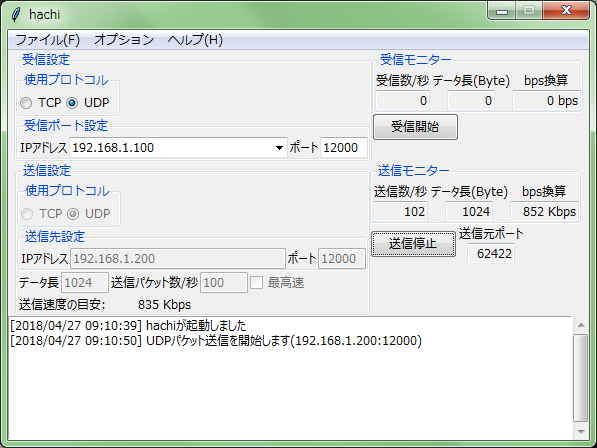
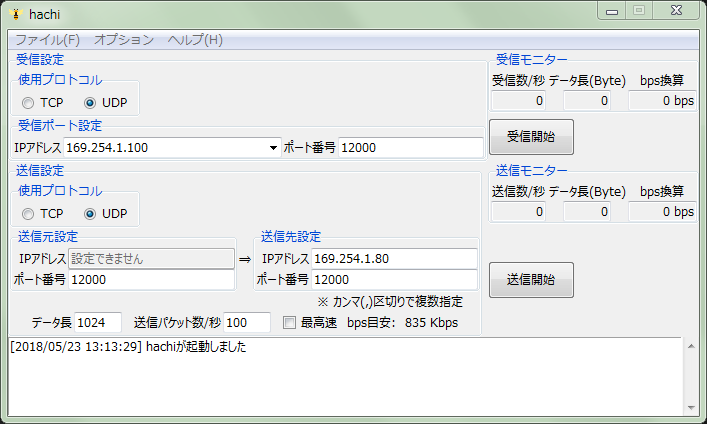
modify

Changed region(s): [[0.0, 0.0, 1.0, 1.0], [0.6935, 0.6439, 0.8141, 0.7052], [0.7839, 0.6132, 0.8141, 0.6439]]

diff --git a/view/TxField.py b/view/TxField.py
@@ -120,6 +120,9 @@ class SendParamField(ttk.Frame):
     def __init__(self, master):
         ttk.Frame.__init__(self, master)
 
+        # 注意書き
+        ttk.Label(self, text="※ カンマ(,)区切りで複数指定").pack(anchor=tk.E)
+
         # データ長
         param_datalen = Common.LabelEntry(self, text="データ長", width=6)
         param_datalen.pack(side=tk.LEFT, padx=5)
@@ -141,9 +144,10 @@ class SendParamField(ttk.Frame):
         param_unlimited.configure(variable=TxController.SendParams().unlimited)
         txWidgets['param_unlimited'] = param_unlimited
 
-        # # 送信速度の目安
-        # ttk.Label(self, text="送信速度の目安:   ").pack(side=tk.LEFT)
-        # txWidgets['param_pps'] = param_pps
+        # 送信速度の目安
+        ttk.Label(self, text="bps目安:").pack(side=tk.LEFT)
+        param_bps = ttk.Label(self, textvariable=TxController.SendParams().bps)
+        param_bps.pack(side=tk.LEFT, padx=5)
 
 
 class MonitorField(ttk.LabelFrame):

diff --git a/model/HachiUtil.py b/model/HachiUtil.py
@@ -33,9 +33,9 @@ def is_admin():
 class UpdateBps:
     """ bpsの動的更新 """
 
-    def __init__(self, len, freq, bps_str):
+    def __init__(self, len, pps, bps_str):
         self.len = len
-        self.freq = freq
+        self.pps = pps
         self.bps_str = bps_str
 
         # 初回実行
@@ -44,7 +44,13 @@ class UpdateBps:
     def __call__(self, *args):
         try:
             # 数値以外が設定されていたら例外へ飛ぶ
-            bps = ((self.len.get() + 46) * 8) * self.freq.get()
+            len = int(self.len.get())
+            pps = int(self.pps.get())
+
+            HEADER_LEN = 46
+            BYTE_2_BIT = 8
+
+            bps = (len+HEADER_LEN) * BYTE_2_BIT * pps
             unit = " bps"
 
             if bps < 1024:

diff --git a/controller/TxController.py b/controller/TxController.py
@@ -82,6 +82,11 @@ class SendParams(object):
             cls.srcaddr = AddrVar(port=DEF_SRC_PROT)
             cls.advanced = HachiUtil.is_admin()
 
+            # "bps目安"動的更新
+            bps_callback = HachiUtil.UpdateBps(cls.datalen, cls.pps, cls.bps)
+            cls.pps.trace_add('write', bps_callback)
+            cls.datalen.trace_add('write', bps_callback)
+
         return cls._instance
 
 

diff --git a/controller/MenuController.py b/controller/MenuController.py
@@ -15,7 +15,7 @@ class ShowVersion:
     def __call__(self):
         msg = """
 Hachi
-Version 1.1.0
+Version 1.2.0
 
 Copyright (c) 2018 k.kanatani
 """[1:-1]

diff --git a/README.md b/README.md
@@ -29,19 +29,94 @@ Hachi
 
 ### クライアント機能
 
-||Nana|Hachi|
-|:--|:--|:--|
-|TCPパケット送信|○|○|
-|UDPパケット送信|○|○|
-|パケット手動生成|○|×|
-|宛先IPアドレス指定|○|○|
-|宛先ポート指定|○|○|
-|複数宛先ポート指定|×|○ ※UDPのみ|
-|パケットデータ長設定|○ (1,500 byteまで)|○ (9,000 byteまで)|
-|パケット数/秒設定|○|○|
-|最高速パケット送信|○|○|
-|スループット計測|送信パケット数/秒<br>１パケットあたりのデータ長<br>bps|送信パケット数/秒<br>１パケットあたりのデータ長<br>bps|
-|IPv6対応|○|○|
+<table>
+  <thead>
+		<tr>
+			<th colspan="3"></th>
+			<th>Nana</th>
+			<th>Hachi</th>
+		</tr>
+  </thead>
+	<tbody>
+		<tr>
+			<td rowspan="5">TCPパケット送信</td>
+			<td rowspan="2">送信元設定</td>
+			<td>IPアドレス</td>
+			<td>△(Originalパケット生成で可能)</td>
+			<td>×</td>
+		</tr>
+		<tr>
+			<td>ポート番号</td>
+			<td>△(Originalパケット生成で可能)</td>
+			<td>一つのみ指定可能</td>
+		</tr>
+		<tr>
+			<td rowspan="2">送信先設定</td>
+			<td>IPアドレス</td>
+			<td>一つのみ指定可能</td>
+			<td>一つのみ指定可能</td>
+		</tr>
+		<tr>
+			<td>ポート番号</td>
+			<td>一つのみ指定可能</td>
+			<td>一つのみ指定可能</td>
+		</tr>
+		<tr>
+			<td colspan="2">IPv6対応</td>
+			<td>○</td>
+			<td>○</td>
+		</tr>
+		<tr>
+			<td rowspan="5">UDPパケット送信</td>
+			<td rowspan="2">送信元設定</td>
+			<td>IPアドレス</td>
+			<td>△(Originalパケット生成で可能)</td>
+			<td>×</td>
+		</tr>
+		<tr>
+			<td>ポート番号</td>
+			<td>△(Originalパケット生成で可能)</td>
+			<td>複数指定可能</td>
+		</tr>
+		<tr>
+			<td rowspan="2">送信先設定</td>
+			<td>IPアドレス</td>
+			<td>一つのみ指定可能</td>
+			<td>複数指定可能</td>
+		</tr>
+		<tr>
+			<td>ポート番号</td>
+			<td>一つのみ指定可能</td>
+			<td>複数指定可能</td>
+		</tr>
+		<tr>
+			<td colspan="2">IPv6対応</td>
+			<td>○</td>
+			<td>○</td>
+		</tr>
+		<tr>
+			<td rowspan="3">共通設定</td>
+			<td colspan="2">パケットデータ長</td>
+			<td>1,500 byteまで</td>
+			<td>9,999 byteまで</td>
+		</tr>
+		<tr>
+			<td colspan="2">パケット数/秒</td>
+			<td>○</td>
+			<td>○</td>
+		</tr>
+		<tr>
+			<td colspan="2">最高速パケット送信</td>
+			<td>○</td>
+			<td>○</td>
+		</tr>
+		<tr>
+			<td colspan="3">スループット計測</td>
+			<td>送信パケット数/秒</br>１パケットあたりのデータ長</br>bps</td>
+			<td>送信パケット数/秒</br>１パケットあたりのデータ長</br>bps</td>
+		</tr>
+	</tbody>
+</table>
 
 ### オプション機能
 
@@ -65,16 +140,17 @@ Hachi
 - Windows 10(64bit)
 
 ## Change Log
-
+- v1.2.0(2018/05/23)
+  - 最大ジャンボフレーム拡張(9,000byte -> 9,999bye)
+  - パケット送信元設定指定
+  - パケット送信先の複数IPアドレス、ポート指定追加
+  - タスク優先度設定追加
 - v1.1.0(2018/05/15)
   - 送信先ポートの範囲選択機能追加
 - v1.0.0(2018/04/27)
   - 初回リリース
 
 ## Future
-
-- ジャンボパケット対応
-- 送信元インタフェース(IP,port)指定(マルチ対応含む)
 - 受信インタフェース マルチ対応
 - スループットのグラフ表示
 
